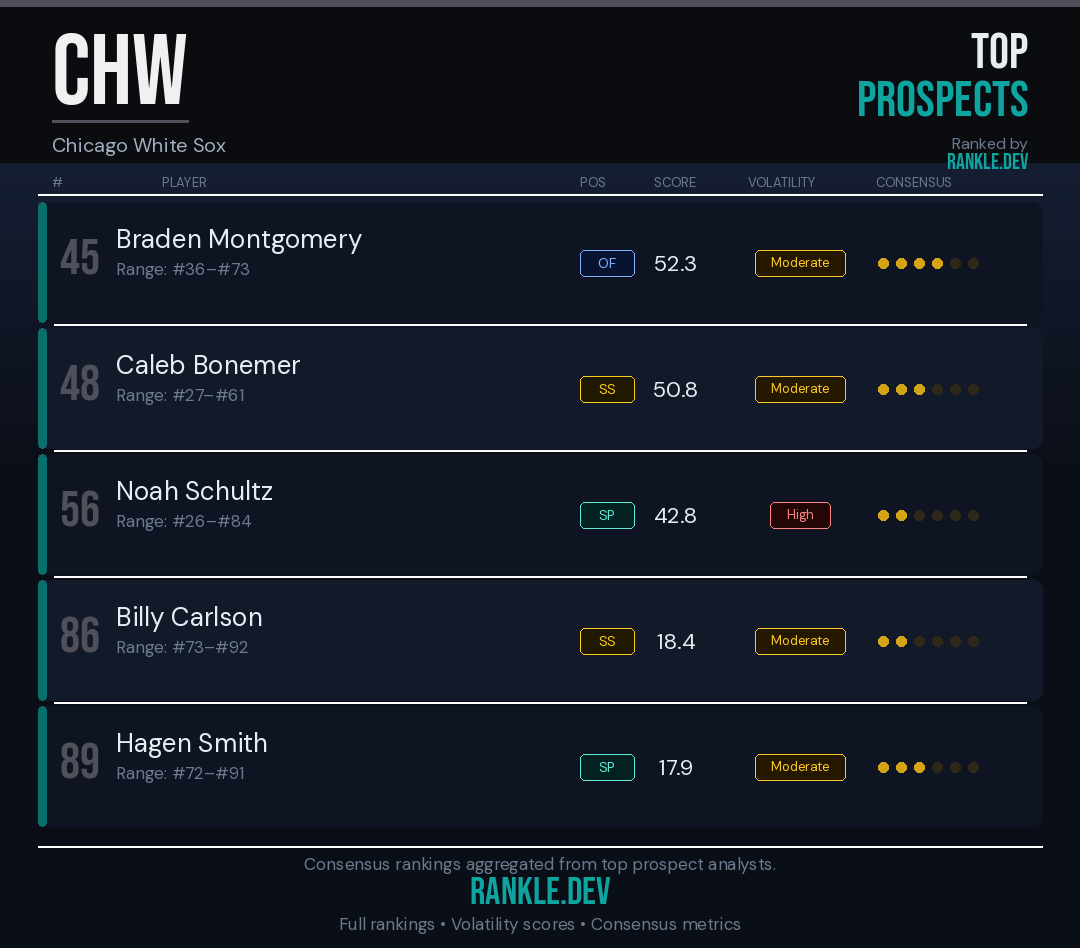
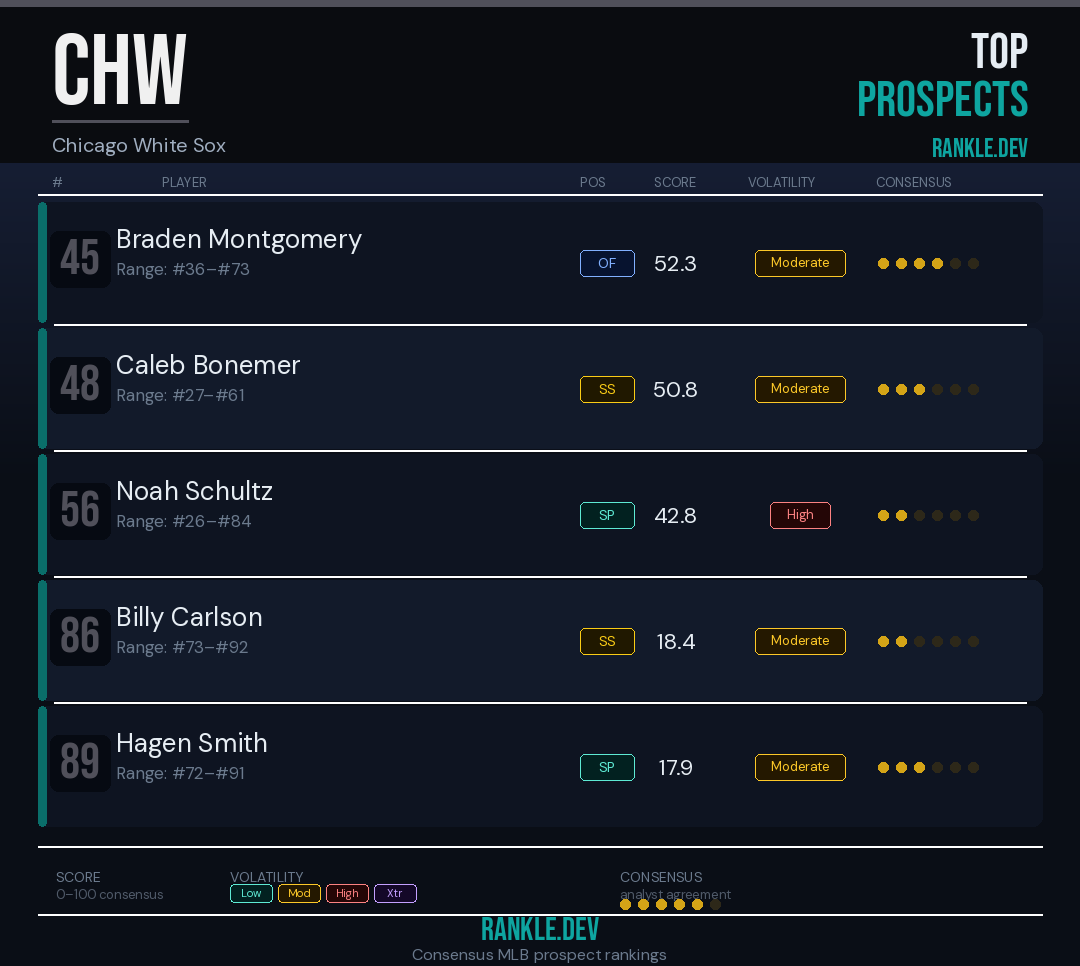
Team graphic: rank pill contrast, legend, remove 'Ranked by'
- Rank numbers now sit on a dark pill background for guaranteed contrast
  on any team color
- Footer replaced with a brief legend: Score description, all 4
  Volatility badge swatches, Consensus dots example
- Removed 'Ranked by' label above RANKLE.DEV in header

diff --git a/team_graphic.py b/team_graphic.py
@@ -328,8 +328,7 @@ def generate_team_graphic(team_code: str) -> BytesIO:
     # "TOP PROSPECTS" — always legible: white on dark
     draw.text((W - 52, 32),  "TOP",        font=_fb(50), fill=WHITE_HI,  anchor="rt")
     draw.text((W - 52, 80),  "PROSPECTS",  font=_fb(50), fill=TEAL,      anchor="rt")
-    draw.text((W - 52, 138), "Ranked by",  font=_fd(16), fill=TEXT_LO,   anchor="rt")
-    draw.text((W - 52, 153), "RANKLE.DEV", font=_fb(22), fill=TEAL,      anchor="rt")
+    draw.text((W - 52, 138), "RANKLE.DEV", font=_fb(26), fill=TEAL,      anchor="rt")
 
     # ── Column headers ────────────────────────────────────────────────────────
     COL_Y = HEADER_H + 12
@@ -371,8 +370,17 @@ def generate_team_graphic(team_code: str) -> BytesIO:
             draw.rounded_rectangle([38, y, 46, y + ROW_H - 6],
                                    radius=4, fill=TEAL_DIM)
 
-            # Overall rank number
-            draw.text((RANK_RIGHT, mid_y - 6), str(p["displayRank"]),
+            # Overall rank number — on a dark pill for contrast
+            rank_str = str(p["displayRank"])
+            rank_w   = int(tmp_d.textlength(rank_str, font=rank_font))
+            pill_pad = 10
+            pill_x0  = RANK_RIGHT - rank_w - pill_pad
+            pill_x1  = RANK_RIGHT + pill_pad
+            pill_y0  = mid_y - 34
+            pill_y1  = mid_y + 22
+            draw.rounded_rectangle([pill_x0, pill_y0, pill_x1, pill_y1],
+                                   radius=8, fill=(6, 10, 18))
+            draw.text((RANK_RIGHT, mid_y - 6), rank_str,
                       font=rank_font, fill=RANK_COLOR, anchor="rm")
 
             # Name
@@ -405,17 +413,50 @@ def generate_team_graphic(team_code: str) -> BytesIO:
                 sy = y + ROW_H - 4
                 draw.rectangle([54, sy, W - 54, sy + 1], fill=(255, 255, 255, 8))
 
-    # ── Footer ────────────────────────────────────────────────────────────────
+    # ── Footer / legend ───────────────────────────────────────────────────────
     FY = ROW_Y0 + n_rows * ROW_H + PAD
     draw.rectangle([38, FY, W - 38, FY + 1], fill=(255, 255, 255, 16))
-    draw.text((W // 2, FY + 18),
-              "Consensus rankings aggregated from top prospect analysts.",
-              font=_fd(17), fill=TEXT_LO, anchor="mm")
-    draw.text((W // 2, FY + 46), "RANKLE.DEV",
-              font=_fb(38), fill=TEAL, anchor="mm")
-    draw.text((W // 2, FY + 78),
-              "Full rankings • Volatility scores • Consensus metrics",
-              font=_fd(17), fill=TEXT_LO, anchor="mm")
+
+    # Legend row — Score | Volatility | Consensus dots
+    LY     = FY + 22
+    lf_key = _fd(14)
+    lf_val = _fd(13)
+
+    # Score
+    draw.text((56, LY), "SCORE", font=lf_key, fill=TEXT_LO)
+    draw.text((56, LY + 18), "0–100 consensus", font=lf_val, fill=(80, 90, 105))
+
+    # Volatility swatches
+    vx = 230
+    draw.text((vx, LY), "VOLATILITY", font=lf_key, fill=TEXT_LO)
+    vol_items = [("Low", "Low"), ("Mod", "Moderate"), ("High", "High"), ("Xtr", "Extreme")]
+    bx = vx
+    for label, vol_key in vol_items:
+        _, fg = VOL_COLORS[vol_key]
+        bg_c, _ = VOL_COLORS[vol_key]
+        bw, bh = 42, 18
+        draw.rounded_rectangle([bx, LY + 16, bx + bw, LY + 16 + bh], radius=4,
+                                fill=(bg_c[0]//5, bg_c[1]//5, bg_c[2]//5))
+        draw.rounded_rectangle([bx, LY + 16, bx + bw, LY + 16 + bh], radius=4,
+                                outline=fg, width=1)
+        draw.text((bx + bw // 2, LY + 25), label, font=_fd(11), fill=fg, anchor="mm")
+        bx += bw + 6
+
+    # Consensus dots explanation
+    dx = 620
+    draw.text((dx, LY), "CONSENSUS", font=lf_key, fill=TEXT_LO)
+    draw.text((dx, LY + 18), "analyst agreement", font=lf_val, fill=(80, 90, 105))
+    _draw_consensus_dots(draw, dx, LY + 36, filled=5)
+
+    # Divider + branding
+    draw.rectangle([38, FY + 68, W - 38, FY + 69], fill=(255, 255, 255, 8))
+    draw.text((W // 2, FY + 84), "RANKLE.DEV",
+              font=_fb(32), fill=TEAL, anchor="mm")
+    draw.text((W // 2, FY + 108),
+              "Consensus MLB prospect rankings",
+              font=_fd(16), fill=TEXT_LO, anchor="mm")
+
+    FOOTER_H = 120
 
     # ── Crop and return ───────────────────────────────────────────────────────
     content_h = FY + FOOTER_H
